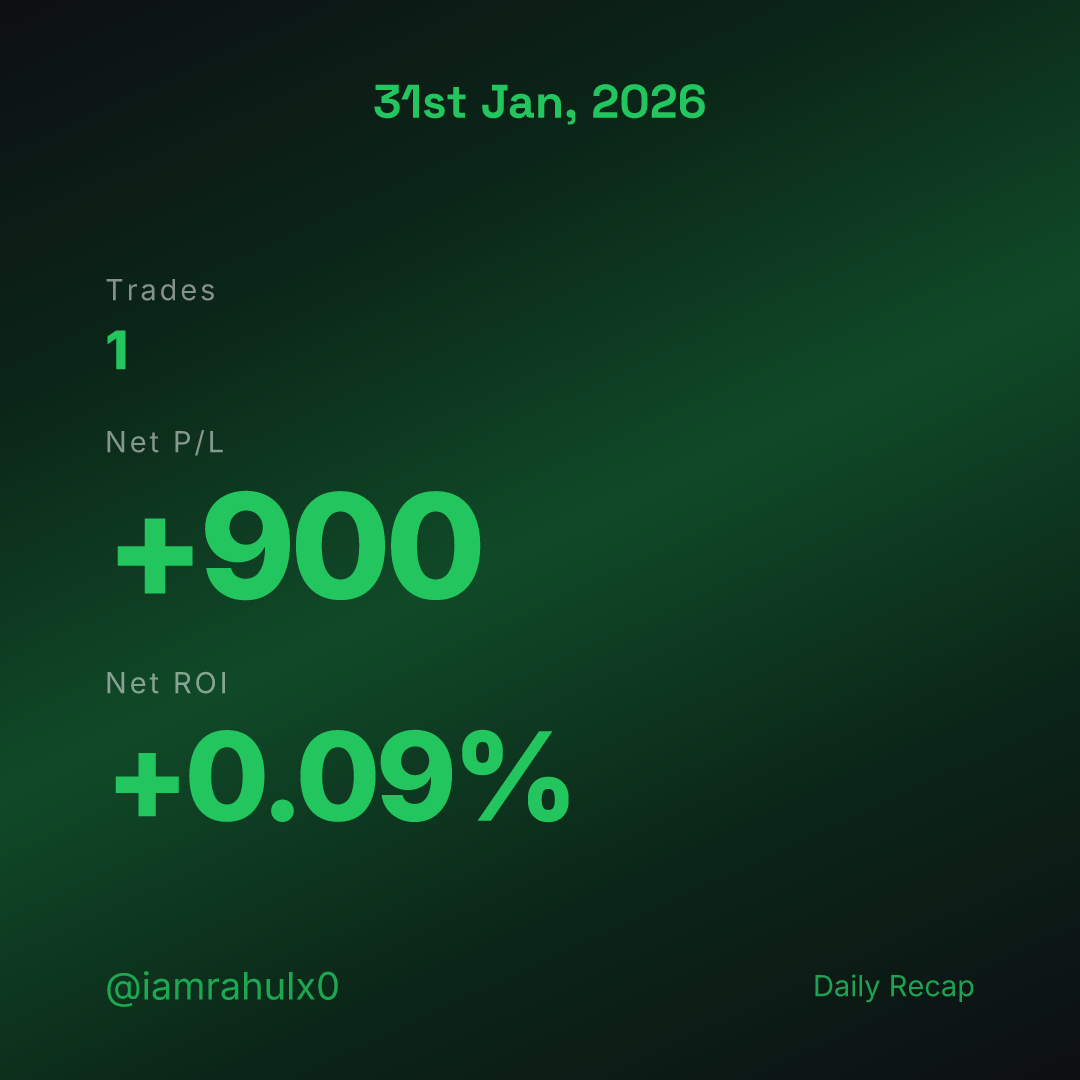
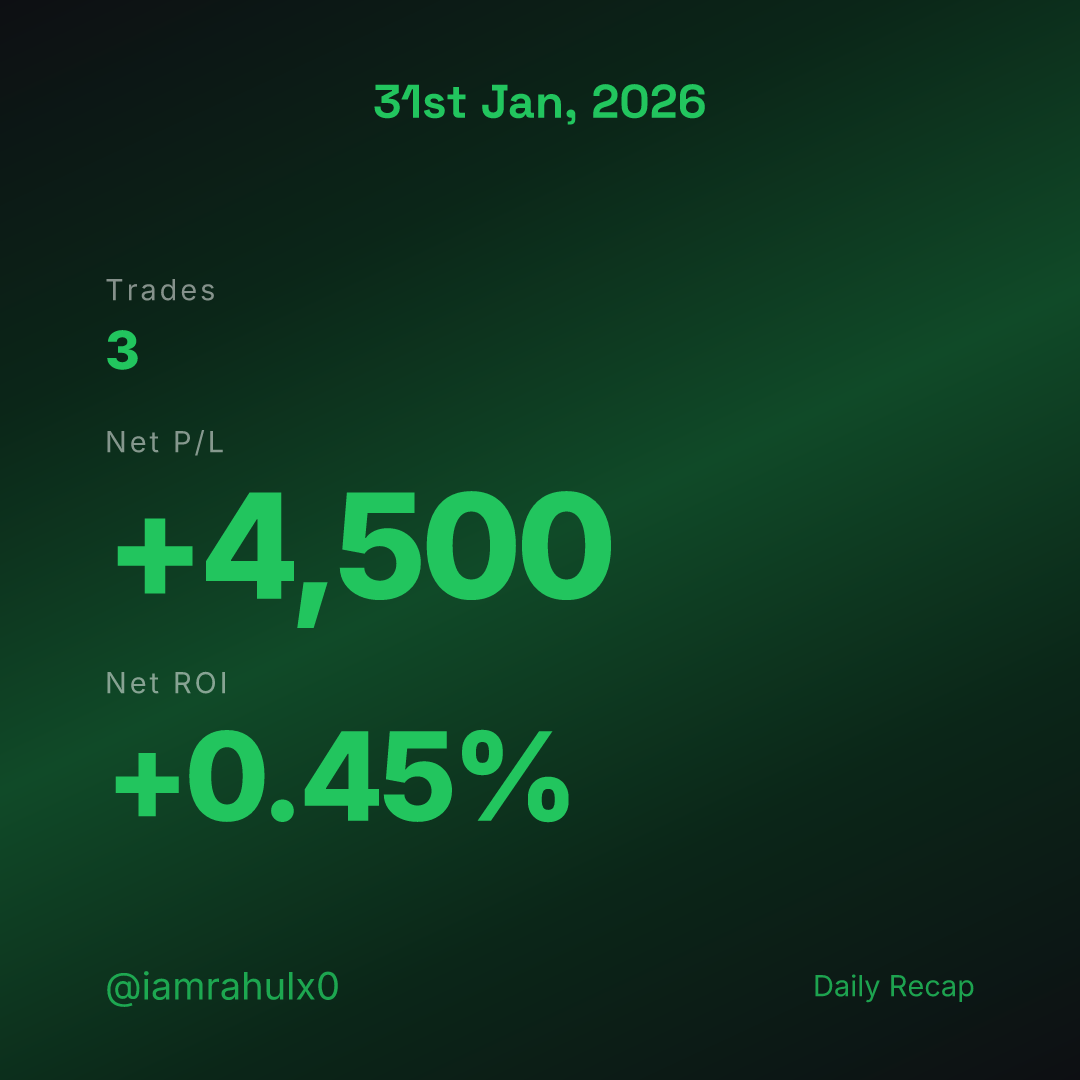
Mobile bottom sheet dialog, sticky save button, regenerate promo images
- Dialog slides up from bottom on mobile (native sheet UX), centered on desktop
- Trade modal: tighter spacing, scrollable body, sticky save button always visible
- Regenerate daily/weekly promo PNGs with updated amounts and 5 trading days

Changed region(s): [[0.1833, 0.4583, 0.5806, 0.5806], [0.275, 0.6722, 0.4278, 0.7639], [0.0917, 0.3056, 0.1528, 0.3361]]

diff --git a/components/dashboard/trade-entry-modal.tsx b/components/dashboard/trade-entry-modal.tsx
@@ -290,7 +290,7 @@ export function TradeEntryModal({
     <>
       <Dialog open={open} onOpenChange={onOpenChange}>
         <DialogContent
-          className="sm:max-w-md max-h-[90vh] flex flex-col overflow-hidden"
+          className="sm:max-w-md max-h-[85vh] flex flex-col overflow-hidden"
           onOpenAutoFocus={(e) => e.preventDefault()}
           hideCloseButton={isEdit}
         >
@@ -328,9 +328,10 @@ export function TradeEntryModal({
 
           <form
             onSubmit={handleSubmit}
-            className="space-y-7 overflow-y-auto overflow-x-hidden min-h-0 flex-1 pr-1 -mr-1"
+            className="flex flex-col min-h-0 flex-1 overflow-hidden"
           >
-            <div className="space-y-3">
+            <div className="space-y-5 overflow-y-auto min-h-0 flex-1">
+            <div className="space-y-2">
               <Label htmlFor="trade_date">Date *</Label>
               <DatePicker
                 id="trade_date"
@@ -362,7 +363,7 @@ export function TradeEntryModal({
               )}
             </div>
 
-            <div className="space-y-3">
+            <div className="space-y-2">
               <Label htmlFor="num_trades">Number of trades *</Label>
               <Input
                 id="num_trades"
@@ -383,7 +384,7 @@ export function TradeEntryModal({
               />
             </div>
 
-            <div className="space-y-3">
+            <div className="space-y-2">
               <Label htmlFor="net_pnl">P&L ({symbol}) *</Label>
               <div className="flex gap-2">
                 <button
@@ -436,7 +437,7 @@ export function TradeEntryModal({
               </p>
             </div>
 
-            <div className="space-y-3">
+            <div className="space-y-2">
               <Label htmlFor="charges">Charges & taxes ({symbol})</Label>
               <Input
                 id="charges"
@@ -468,7 +469,7 @@ export function TradeEntryModal({
               )}
             </div>
 
-            <div className="space-y-3">
+            <div className="space-y-2">
               <div className="flex items-center justify-between">
                 <Label htmlFor="capital_deployed" className="mb-0">
                   Capital ({symbol}) deployed for ROI
@@ -521,8 +522,9 @@ export function TradeEntryModal({
                 </p>
               )}
             </div>
+            </div>
 
-            <DialogFooter className="mt-10">
+            <DialogFooter className="shrink-0 pt-4 border-t border-border/30 mt-2">
               <button
                 type="submit"
                 disabled={isLoading || isFutureDate || isDuplicateDate}

diff --git a/components/ui/dialog.tsx b/components/ui/dialog.tsx
@@ -40,11 +40,20 @@ const DialogContent = React.forwardRef<
     <DialogPrimitive.Content
       ref={ref}
       className={cn(
-        "fixed left-[50%] top-[50%] z-50 grid w-full max-w-lg translate-x-[-50%] translate-y-[-50%] gap-4 border bg-background p-6 shadow-lg duration-200 data-[state=open]:animate-in data-[state=closed]:animate-out data-[state=closed]:fade-out-0 data-[state=open]:fade-in-0 data-[state=closed]:zoom-out-95 data-[state=open]:zoom-in-95 data-[state=closed]:slide-out-to-left-1/2 data-[state=closed]:slide-out-to-top-[48%] data-[state=open]:slide-in-from-left-1/2 data-[state=open]:slide-in-from-top-[48%] sm:rounded-lg",
+        "fixed z-50 grid w-full gap-4 border bg-background shadow-lg duration-200",
+        "data-[state=open]:animate-in data-[state=closed]:animate-out",
+        "data-[state=closed]:fade-out-0 data-[state=open]:fade-in-0",
+        "inset-x-0 bottom-0 rounded-t-2xl p-5",
+        "data-[state=closed]:slide-out-to-bottom data-[state=open]:slide-in-from-bottom",
+        "sm:inset-auto sm:bottom-auto sm:left-[50%] sm:top-[50%] sm:max-w-lg sm:translate-x-[-50%] sm:translate-y-[-50%] sm:rounded-lg sm:p-6",
+        "sm:data-[state=closed]:zoom-out-95 sm:data-[state=open]:zoom-in-95",
+        "sm:data-[state=closed]:slide-out-to-left-1/2 sm:data-[state=closed]:slide-out-to-top-[48%]",
+        "sm:data-[state=open]:slide-in-from-left-1/2 sm:data-[state=open]:slide-in-from-top-[48%]",
         className
       )}
       {...props}
     >
+      <div className="mx-auto h-1 w-10 shrink-0 rounded-full bg-muted sm:hidden" />
       {children}
       {!hideCloseButton && (
         <DialogPrimitive.Close className="absolute right-4 top-4 rounded-sm opacity-70 ring-offset-background transition-opacity hover:opacity-100 focus:outline-none focus:ring-2 focus:ring-ring focus:ring-offset-2 disabled:pointer-events-none data-[state=open]:bg-accent data-[state=open]:text-muted-foreground">
